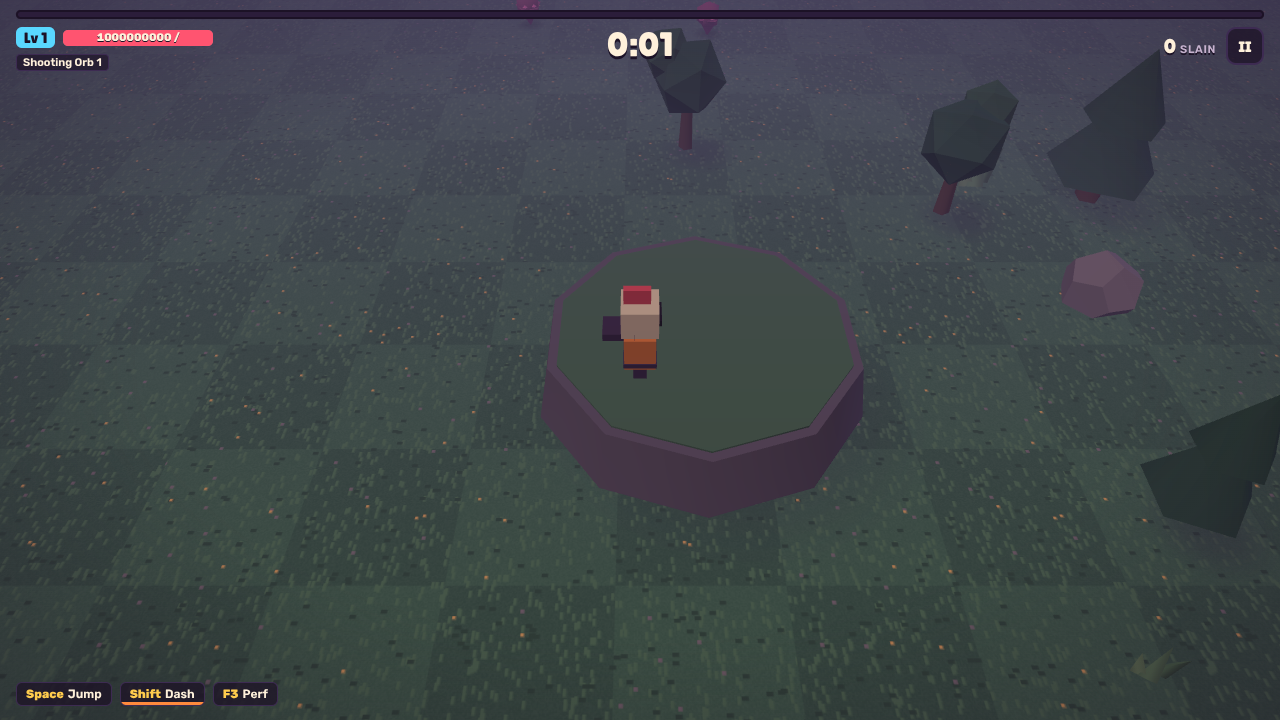
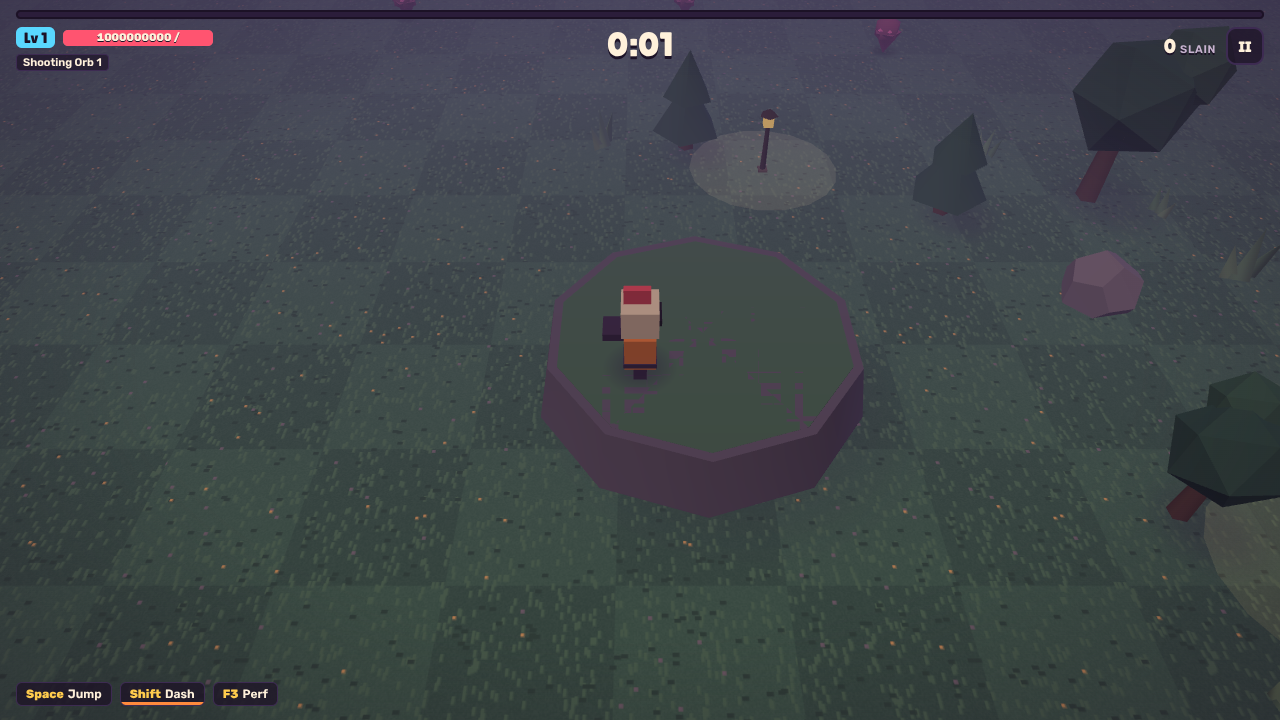
Applique la relecture perf : dessus du plateau à la hauteur du sol, garde-fou de capacité, ignoresGround évalué une fois
Claude-Session: https://claude.ai/code/session_019HFKrdLTH4im3Soc8Qo7e2

diff --git a/src/render/instancing.ts b/src/render/instancing.ts
@@ -4,9 +4,11 @@ const WHITE = new THREE.Color(0xffffff);
 
 /** InstancedMesh prêt pour un usage dynamique : couleurs allouées à pleine capacité, count = 0. */
 export function makeInstanced(geo: THREE.BufferGeometry, mat: THREE.Material, cap: number): THREE.InstancedMesh {
-  const m = new THREE.InstancedMesh(geo, mat, cap);
+  // capacité ≥ 1 : à 0, `instanceColor` resterait null (création paresseuse dans setColorAt) et le rendu planterait
+  const n = Math.max(1, cap);
+  const m = new THREE.InstancedMesh(geo, mat, n);
   m.instanceMatrix.setUsage(THREE.DynamicDrawUsage);
-  for (let i = 0; i < cap; i++) m.setColorAt(i, WHITE);
+  for (let i = 0; i < n; i++) m.setColorAt(i, WHITE);
   m.instanceColor!.setUsage(THREE.DynamicDrawUsage);
   m.count = 0;
   m.frustumCulled = false;

diff --git a/src/sim/step.ts b/src/sim/step.ts
@@ -181,7 +181,8 @@ function stepEnemies(w: World, dt: number): void {
     }
     let mx = mv[0],
       mz = mv[1];
-    if (!ignoresGround(e.type)) {
+    const flies = ignoresGround(e.type);
+    if (!flies) {
       const slow = w.speedAt(e.x, e.z);
       mx *= slow;
       mz *= slow;
@@ -208,7 +209,6 @@ function stepEnemies(w: World, dt: number): void {
     e.z += (mz + e.kz) * dt;
     e.kx *= decay;
     e.kz *= decay;
-    const flies = ignoresGround(e.type);
     if (!flies) {
       // plateaux : les marcheurs (et les boss) butent au pied
       w.resolvePlateaux(e.x, e.z, 0, e.r, out2);

diff --git a/src/render/decor.ts b/src/render/decor.ts
@@ -47,7 +47,7 @@ export const lampHeadGeometry = () => new THREE.BoxGeometry(0.3, 0.34, 0.3).tran
 export const plateauGeometry = () =>
   build([
     { shape: 'cyl', size: [1, 1.08, 1], pos: [0, 0.5, 0], color: 0x6b6280, seg: 10 },
-    { shape: 'cyl', size: [0.94, 0.94, 0.06], pos: [0, 1.0, 0], color: 0x4f7a62, seg: 10 },
+    { shape: 'cyl', size: [0.94, 0.94, 0.06], pos: [0, 0.97, 0], color: 0x4f7a62, seg: 10 }, // dessus à 1,0 exactement : le joueur et son ombre sont posés dessus
   ]);
 
 /** Nombre de touffes et de lucioles (statique / par frame). */

diff --git a/docs/GATES.md b/docs/GATES.md
@@ -14,7 +14,7 @@ Une ligne par phase. Une phase est franchie quand toutes ses mesures sont consig
 | 7 — Identité     | **franchie** | 3 nov. 2026 | [#14](https://github.com/jimmyhag/ruee-nocturne/pull/14) | draw calls **20** (≤ 40) · tris **87 k** à 400 ennemis (< 150 k) · bench p50 0,30 ms, p95 0,49 ms (inchangé) · Vitest 249 · e2e 40 · chunk principal 37 ko gz (three toujours hors du chunk) · fps téléphone : non mesuré (merge sur décision de Jimmy le 3 nov. 2026, à relever sur le live 1.2.0 avec `docs/DEVICES.md`)                                                                                                                                                                                                                                                                                                                      | `docs/captures/phase-7/portrait-*.png`, `ennemi-*.png`, `docs/store/*.png`               |
 | 8 — Progression  | **franchie** | 3 nov. 2026 | [#16](https://github.com/jimmyhag/ruee-nocturne/pull/16) | nu (Éclaireuse, 100 runs, seeds 42/43) : survie p50 **5:29 / 5:31** (9:52 en 1.2.0 ; cible 5–7), fin atteinte 0 %, morts < 3 min 13–15 %, or p50 615–652 (3 premiers paliers) · maxé : p50 **15:31 / 15:33** (cible 13–16), fin atteinte 4–5 % · 9 personnages maxés entre 13:23 et 15:52 (± 3 min) ; nus entre 4:49 et 10:52 (les personnages débloqués tard partent plus forts, décision ci-dessous) · CI 200 runs : nu 5:28, maxé 15:37, 6 % de fins · 1.3.1 (relecture) : escalier 5:29 / 8:06 / 11:05 / 13:25 / 15:16, fin 4 % · Vitest 249 · e2e 42 · merge sur décision de Jimmy le 3 nov. 2026 (ressenti téléphone à venir sur le live) | `shots/*-boutique.png`                                                                   |
 | 9 — Rendu net    | **en cours** | 3 nov. 2026 | [#18](https://github.com/jimmyhag/ruee-nocturne/pull/18) | rendu net par défaut (1280×720 sur PC, ≤ 1600 px de haut, DPR ≤ 2) avec MSAA · draw calls **21** (≤ 40) · tris **92 k** (< 150 k) à 400 ennemis · repli automatique vérifié par e2e (2 → 1 → 0 en 12 s de frames à 40 ms) · Vitest 250 · e2e 46 · Lighthouse et fps téléphone : voir mesures                                                                                                                                                                                                                                                                                                                                                    | `shots/*-jeu-3min.png` (net) vs `*-jeu-3min-pixel.png`, portraits et bestiaire régénérés |
-| 11 — Mouvement   | **en cours** | 4 nov. 2026 | —                                                        | départ (1 arme, 2 améliorations, Éclaireuse, 100 runs) : survie p50 **4:40** (4:25 avant ; cible 4–6), 83 % passent 3 min, morts < 3 min 17 % (13 % avant : plateaux et éruptions, voir mesures), éruptions 6 % des morts (≤ 15 %), 3 % des éruptions touchent le bot · maxé 4/4 **14:28** (15:09 avant ; cible 13–16), fin 3 %, éruptions 8 % des morts, charges 2 % · draw calls **29** à 400 ennemis (≤ 40), tris 69 k · bench p50 0,42 ms, p95 0,60 ms · Vitest 266 · e2e mouvement : plateau, éruption, onde (clavier + tactile)                                                                                                           | `docs/captures/phase-11/*.png`                                                           |
+| 11 — Mouvement   | **en cours** | 4 nov. 2026 | —                                                        | départ (1 arme, 2 améliorations, Éclaireuse, 100 runs) : survie p50 **4:40** (4:25 avant ; cible 4–6), 83 % passent 3 min, morts < 3 min 17 % (13 % avant : plateaux et éruptions, voir mesures), éruptions 6 % des morts (≤ 15 %), 3 % des éruptions touchent le bot · maxé 4/4 **14:28** (15:09 avant ; cible 13–16), fin 3 %, éruptions 8 % des morts, charges 2 % · draw calls **24** à 400 ennemis (≤ 40 ; 22 sur mobile), tris 93 k · bench p50 0,42 ms, p95 0,60 ms · Vitest 266 · e2e 54 passés / 6 ignorés dont mouvement : plateau, éruption, onde (clavier + tactile)                                                                | `docs/captures/phase-11/*.png`                                                           |
 | 10 — Progression | **en cours** | 4 nov. 2026 | [#19](https://github.com/jimmyhag/ruee-nocturne/pull/19) | départ (1 arme, 2 améliorations, 0 palier, Éclaireuse, 100 runs) : survie p50 **4:25** (cible 4–6), 87 % passent 3 min, morts < 3 min 13 %, or 171/run · 2 armes sans palier 5:14 · 3/3 et 4 paliers 12:07 · maxé 4/4 **15:09**, fin 3 % · neuf personnages au départ entre 4:00 et 8:57 (Bûcheron et Colporteur passés à Lames 3) · Vitest 252 · 54 tests Playwright                                                                                                                                                                                                                                                                           | `shots/*-boutique.png` (bloc Emplacements)                                               |
 
 ## Phase 0 — mesures détaillées (2 nov. 2026, PC de Jimmy, Windows 11)
@@ -316,16 +316,16 @@ Isolation des morts précoces (départ, 100 runs, plateaux à 12 u du centre, é
 
 Réglage retenu après mesure : première éruption à **2:30** (2:00 : 22 % de morts avant 3 min), dégâts **18** × montée (20) ; période 9 s → 4 s à 15:00, fissure qui suit à 7 u/s, télégraphe 0,8 s. Onde du Gardien 14 × montée toutes les 6 s (3 s en phase 2), charge des Brutes élites 16 × montée en un coup puis 0,7 s d'essoufflement, période 5 s.
 
-| Mesure                 | Valeur                                                                                                                                                                              | Comment                                     |
-| ---------------------- | ----------------------------------------------------------------------------------------------------------------------------------------------------------------------------------- | ------------------------------------------- |
-| Rendu                  | draw calls **29** (21 en 1.5.0 : +1 plateaux, +1 onde, +1 ovale de charge, +télégraphes), tris 69 k à ~90 ennemis (budget mesuré à 400 par `e2e/stress.spec.ts`)                    | `?debug=1`, `renderer.info`                 |
-| Bench                  | p50 **0,42 ms**, p95 **0,60 ms**, max 6,4 ms (mesure sous charge : deux simulations en parallèle), tas +0,17 Mo : `resolvePlateaux` pour 400 marcheurs × 14 plateaux coûte ≈ 0,1 ms | `npm run bench`                             |
-| Plateau                | bloqué au pied en marchant, monté d'un saut (y = 1,4), aucun marcheur sur le dessus 1,5 s plus tard, chute en sortant du bord                                                       | `e2e/mouvement.spec.ts`, `plateaux.test.ts` |
-| Éruption               | immobile : touché (−24 PV à 3:20) et projeté ; saut à mi-télégraphe : indemne ; saut trop tôt : touché ; dash : indemne                                                             | `e2e/mouvement.spec.ts`, `hazards.test.ts`  |
-| Onde                   | au sol : un seul coup par onde ; sautée à 0,4 s du passage : indemne                                                                                                                | idem                                        |
-| Charge                 | télégraphe 0,6 s → charge → essoufflement, un seul coup ; dash au croisement : indemne ; Brute normale : jamais                                                                     | `hazards.test.ts`                           |
-| Parité clavier/tactile | les trois e2e tournent sur `desktop` (Espace) et `mobile` (tap au centre de `#btnJump`)                                                                                             | `e2e/mouvement.spec.ts`                     |
-| Tests                  | **266 Vitest** (+5 plateaux, +9 dangers), **60 tests Playwright**                                                                                                                   | `npm test`, `npm run test:e2e`              |
+| Mesure                 | Valeur                                                                                                                                                                                                                                                                            | Comment                                     |
+| ---------------------- | --------------------------------------------------------------------------------------------------------------------------------------------------------------------------------------------------------------------------------------------------------------------------------- | ------------------------------------------- |
+| Rendu                  | draw calls **24** desktop / **22** mobile à 400 ennemis (21 en 1.5.0 : +1 plateaux permanent, +1 onde pendant une onde, l'ovale de charge partage le mesh des disques) ; 29 mesurés à la main à 90 ennemis avec onde + charge + fissure ; tris **93 k** (92 k + 14 plateaux × 80) | `?debug=1`, `renderer.info`                 |
+| Bench                  | p50 **0,42 ms**, p95 **0,60 ms**, max 6,4 ms (mesure sous charge : deux simulations en parallèle), tas +0,17 Mo : `resolvePlateaux` pour 400 marcheurs × 14 plateaux coûte ≈ 0,1 ms                                                                                               | `npm run bench`                             |
+| Plateau                | bloqué au pied en marchant, monté d'un saut (y = 1,4), aucun marcheur sur le dessus 1,5 s plus tard, chute en sortant du bord                                                                                                                                                     | `e2e/mouvement.spec.ts`, `plateaux.test.ts` |
+| Éruption               | immobile : touché (−24 PV à 3:20) et projeté ; saut à mi-télégraphe : indemne ; saut trop tôt : touché ; dash : indemne                                                                                                                                                           | `e2e/mouvement.spec.ts`, `hazards.test.ts`  |
+| Onde                   | au sol : un seul coup par onde ; sautée à 0,4 s du passage : indemne                                                                                                                                                                                                              | idem                                        |
+| Charge                 | télégraphe 0,6 s → charge → essoufflement, un seul coup ; dash au croisement : indemne ; Brute normale : jamais                                                                                                                                                                   | `hazards.test.ts`                           |
+| Parité clavier/tactile | les trois e2e tournent sur `desktop` (Espace) et `mobile` (tap au centre de `#btnJump`)                                                                                                                                                                                           | `e2e/mouvement.spec.ts`                     |
+| Tests                  | **266 Vitest** (+5 plateaux, +9 dangers), **60 tests Playwright** (54 passés, 6 ignorés : tactile sur desktop)                                                                                                                                                                    | `npm test`, `npm run test:e2e`              |
 
 Décisions de la phase :
 
